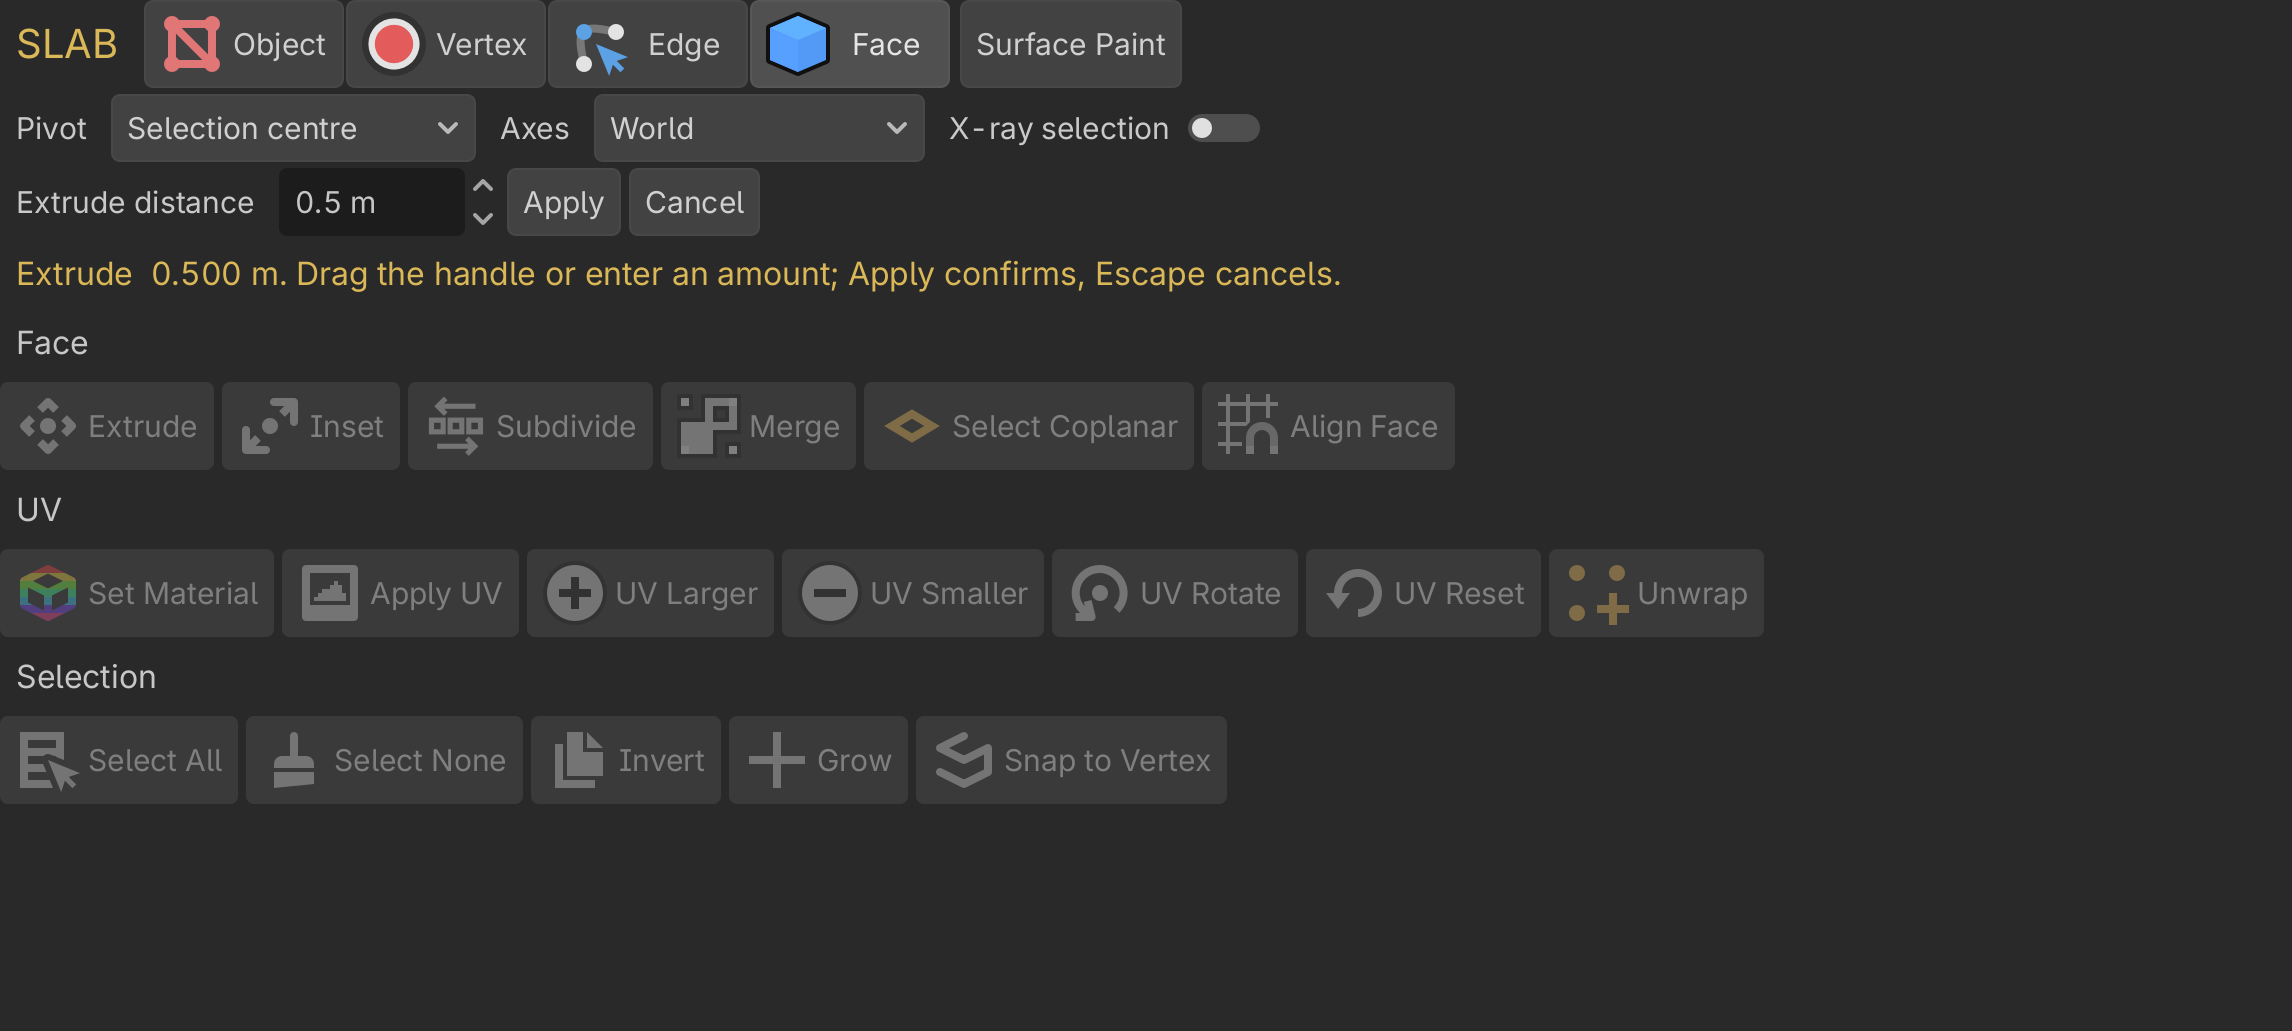
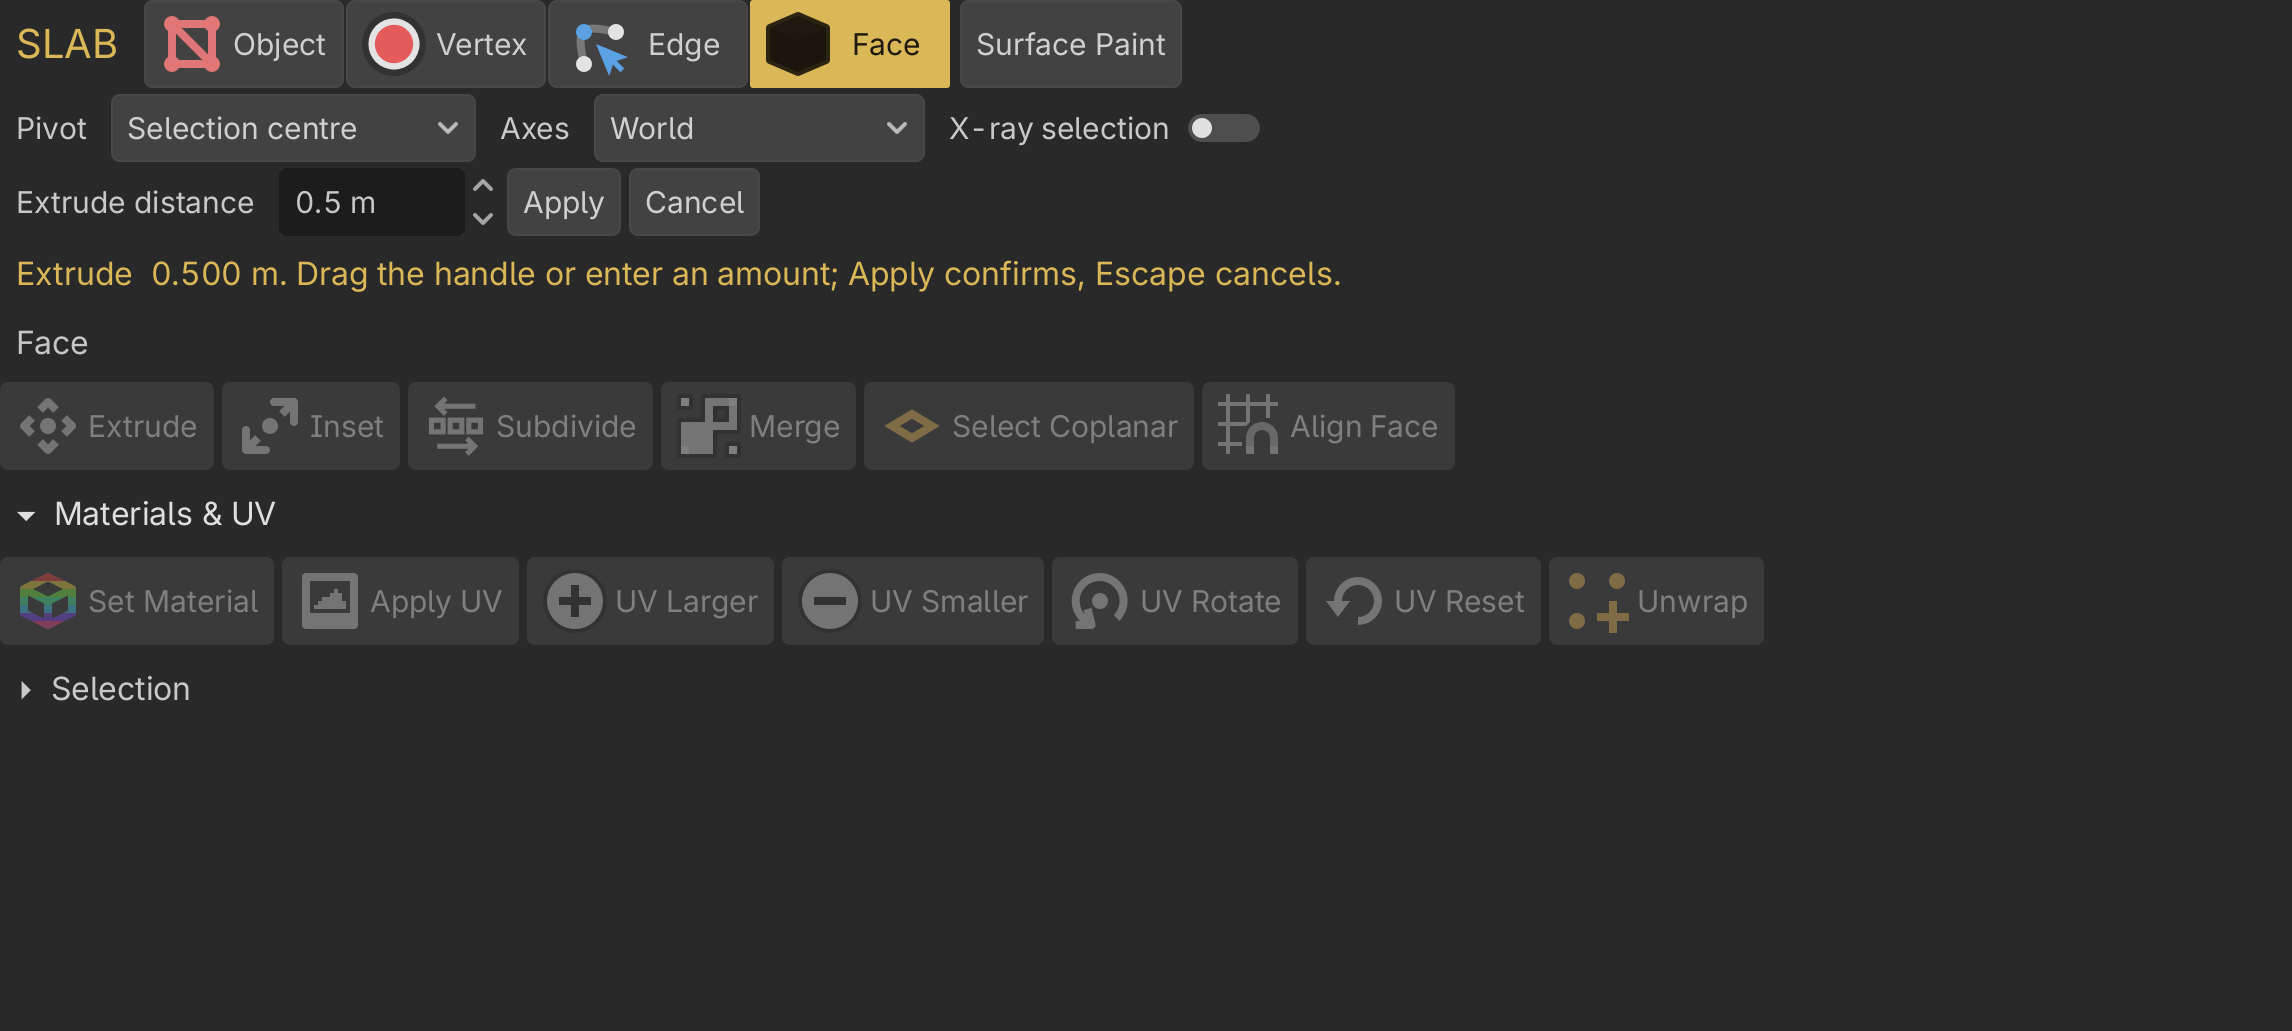
Focus the modelling dock on geometry and reveal surface controls together.

diff --git a/docs/ux-acceptance.md b/docs/ux-acceptance.md
@@ -24,6 +24,8 @@ The goal is ProBuilder or UModeler quality in the editor workflow and manual. A 
 - A copied addon was installed into a fresh project, used to create a 6 by 1 by 6 box through editor controls, saved, and reopened in another editor process. Dimensions, editability, and collision survived. The installation guide documents this verified macOS path and distinguishes unverified platforms.
 - At 320 and 390 px, panel and keyboard references have no page-wide horizontal overflow; wide tables scroll locally, and navigation/contents disclosures work.
 
+- Selection modes use a persistent gold highlight, including hover. Empty element selections explain the next viewport action. Materials & UV and Selection command groups start collapsed and remember their state across mode switches for the editor session. Materials & UV reveals its commands and selected-face settings together, with the palette first and UV axes side by side. The rendered panel test verifies keyboard selection while collapsed, keyboard disclosure activation, mode-switch persistence, and the existing room/preview/Undo workflows. The live Signal Foundry editor was also checked with the dock reduced to roughly 250 pixels high. The seven affected guide pages and three panel captures match the new controls.
+
 ## Remaining acceptance work
 
 | Area | Evidence still required |
